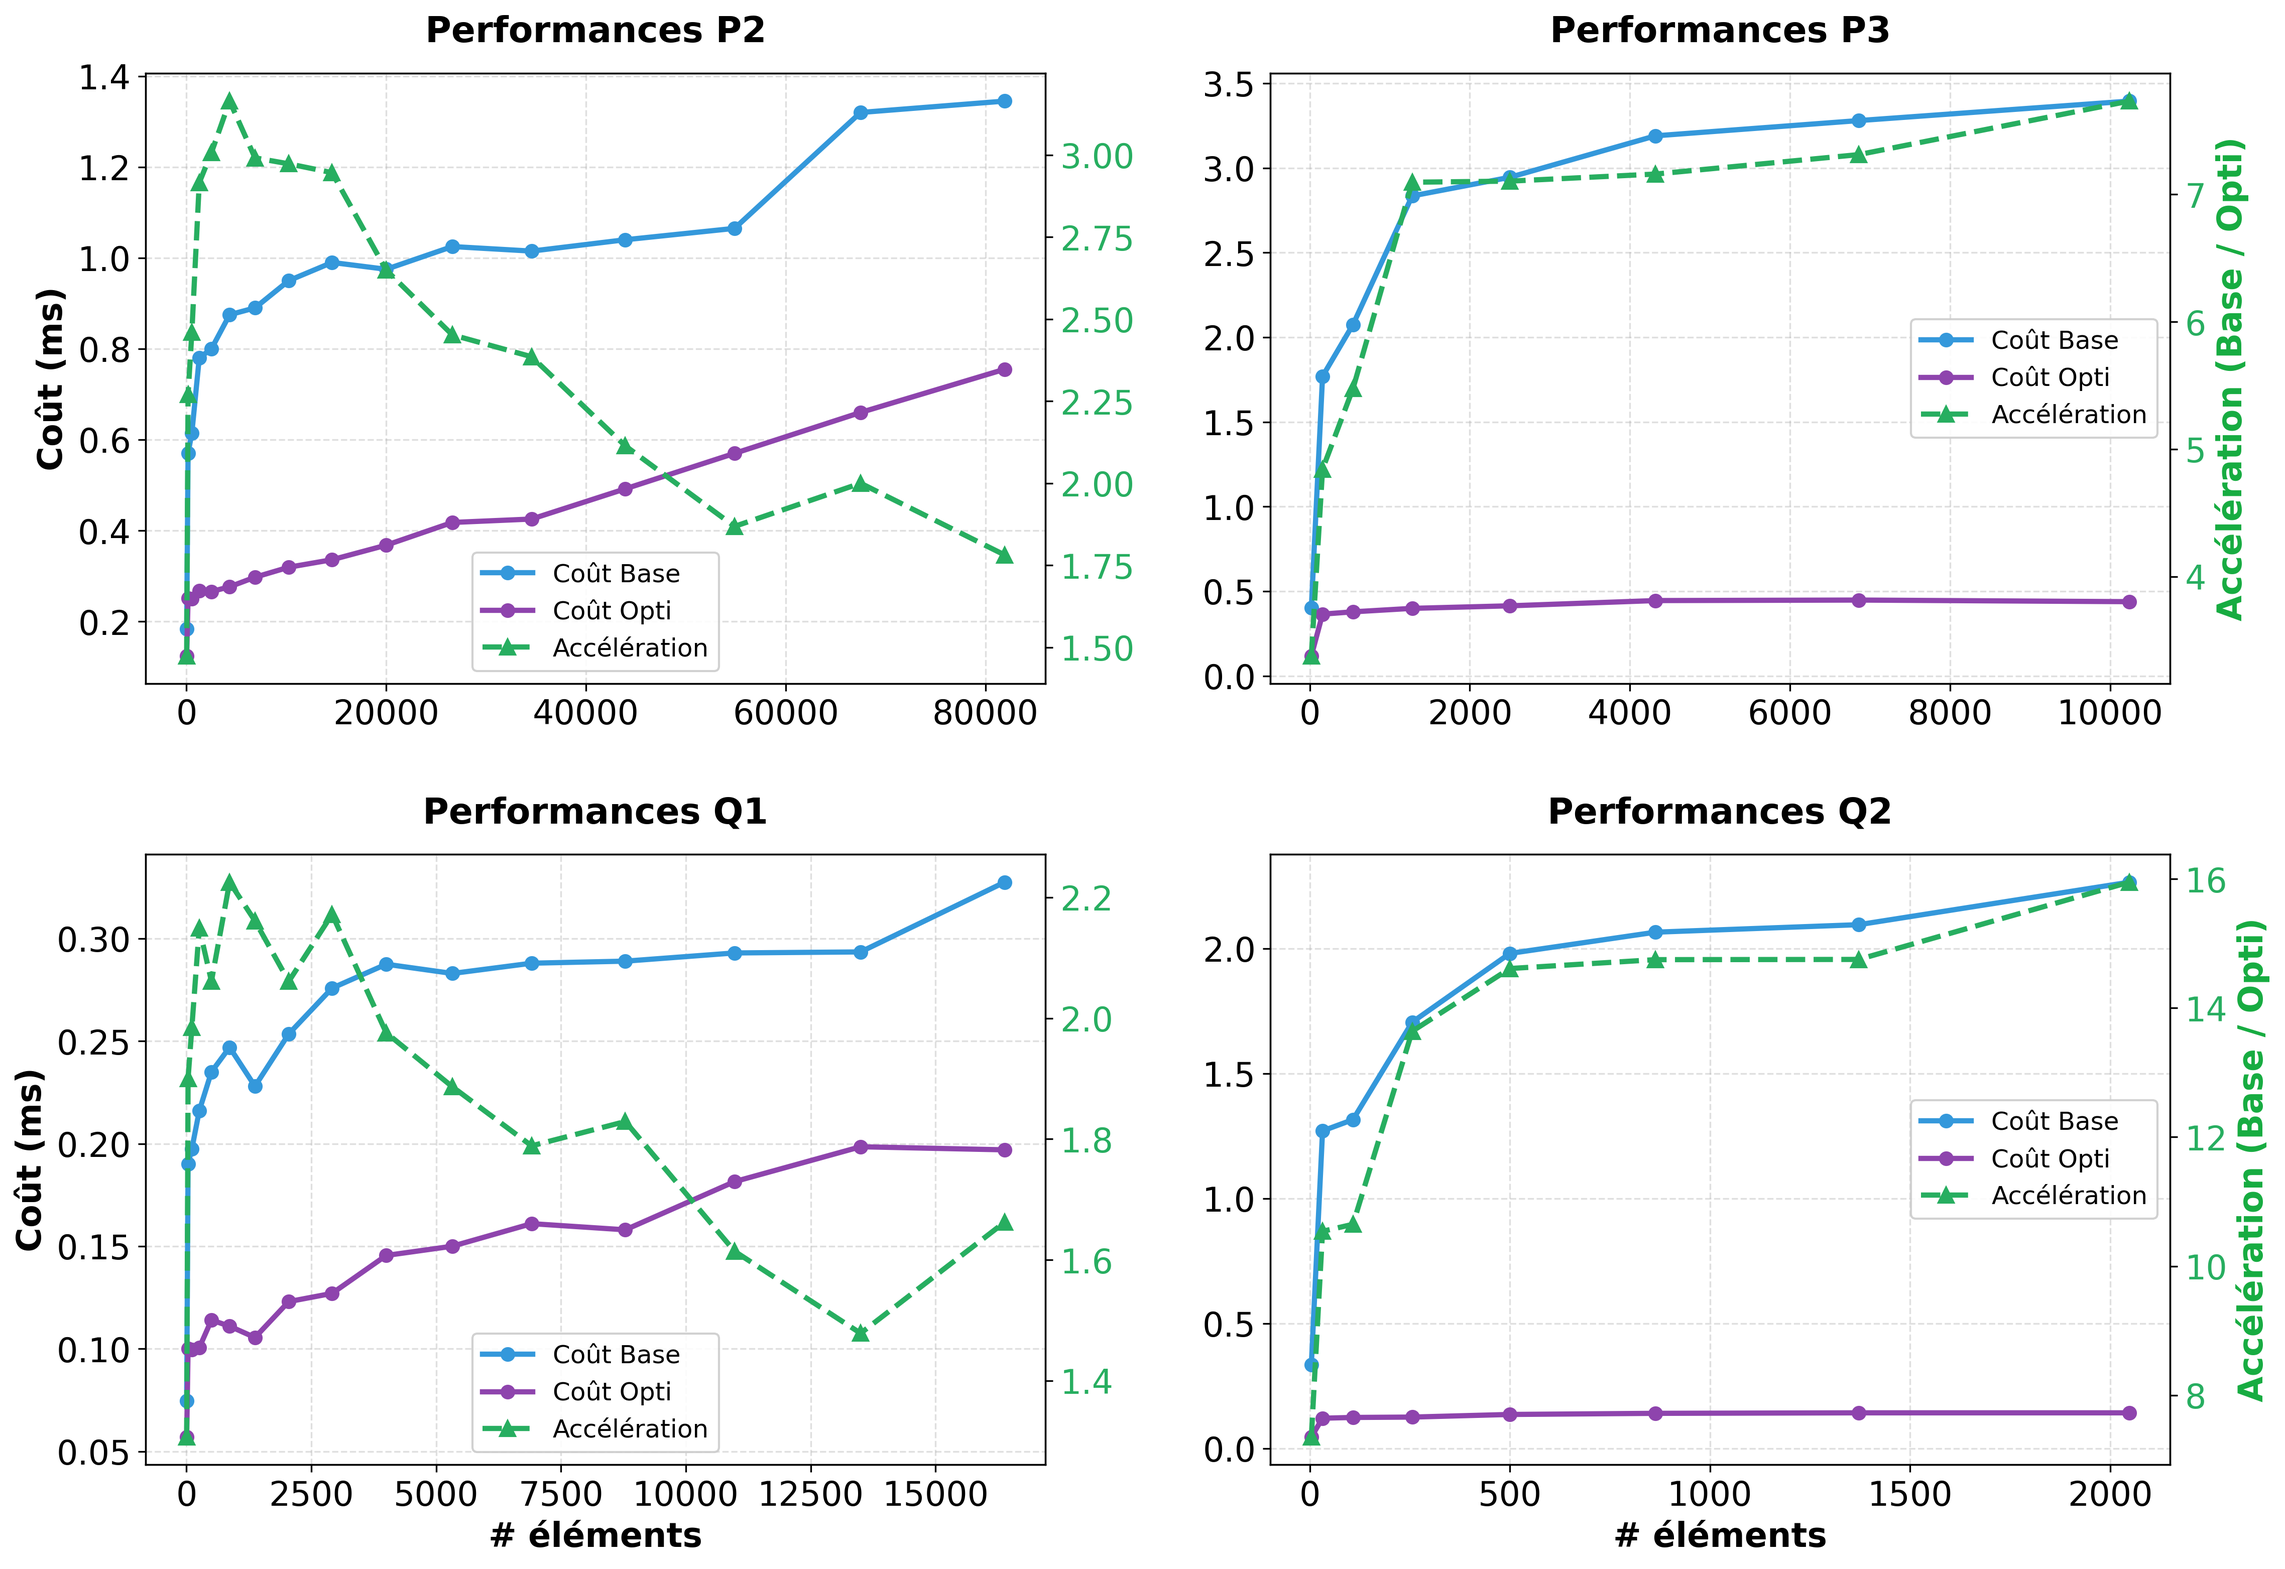
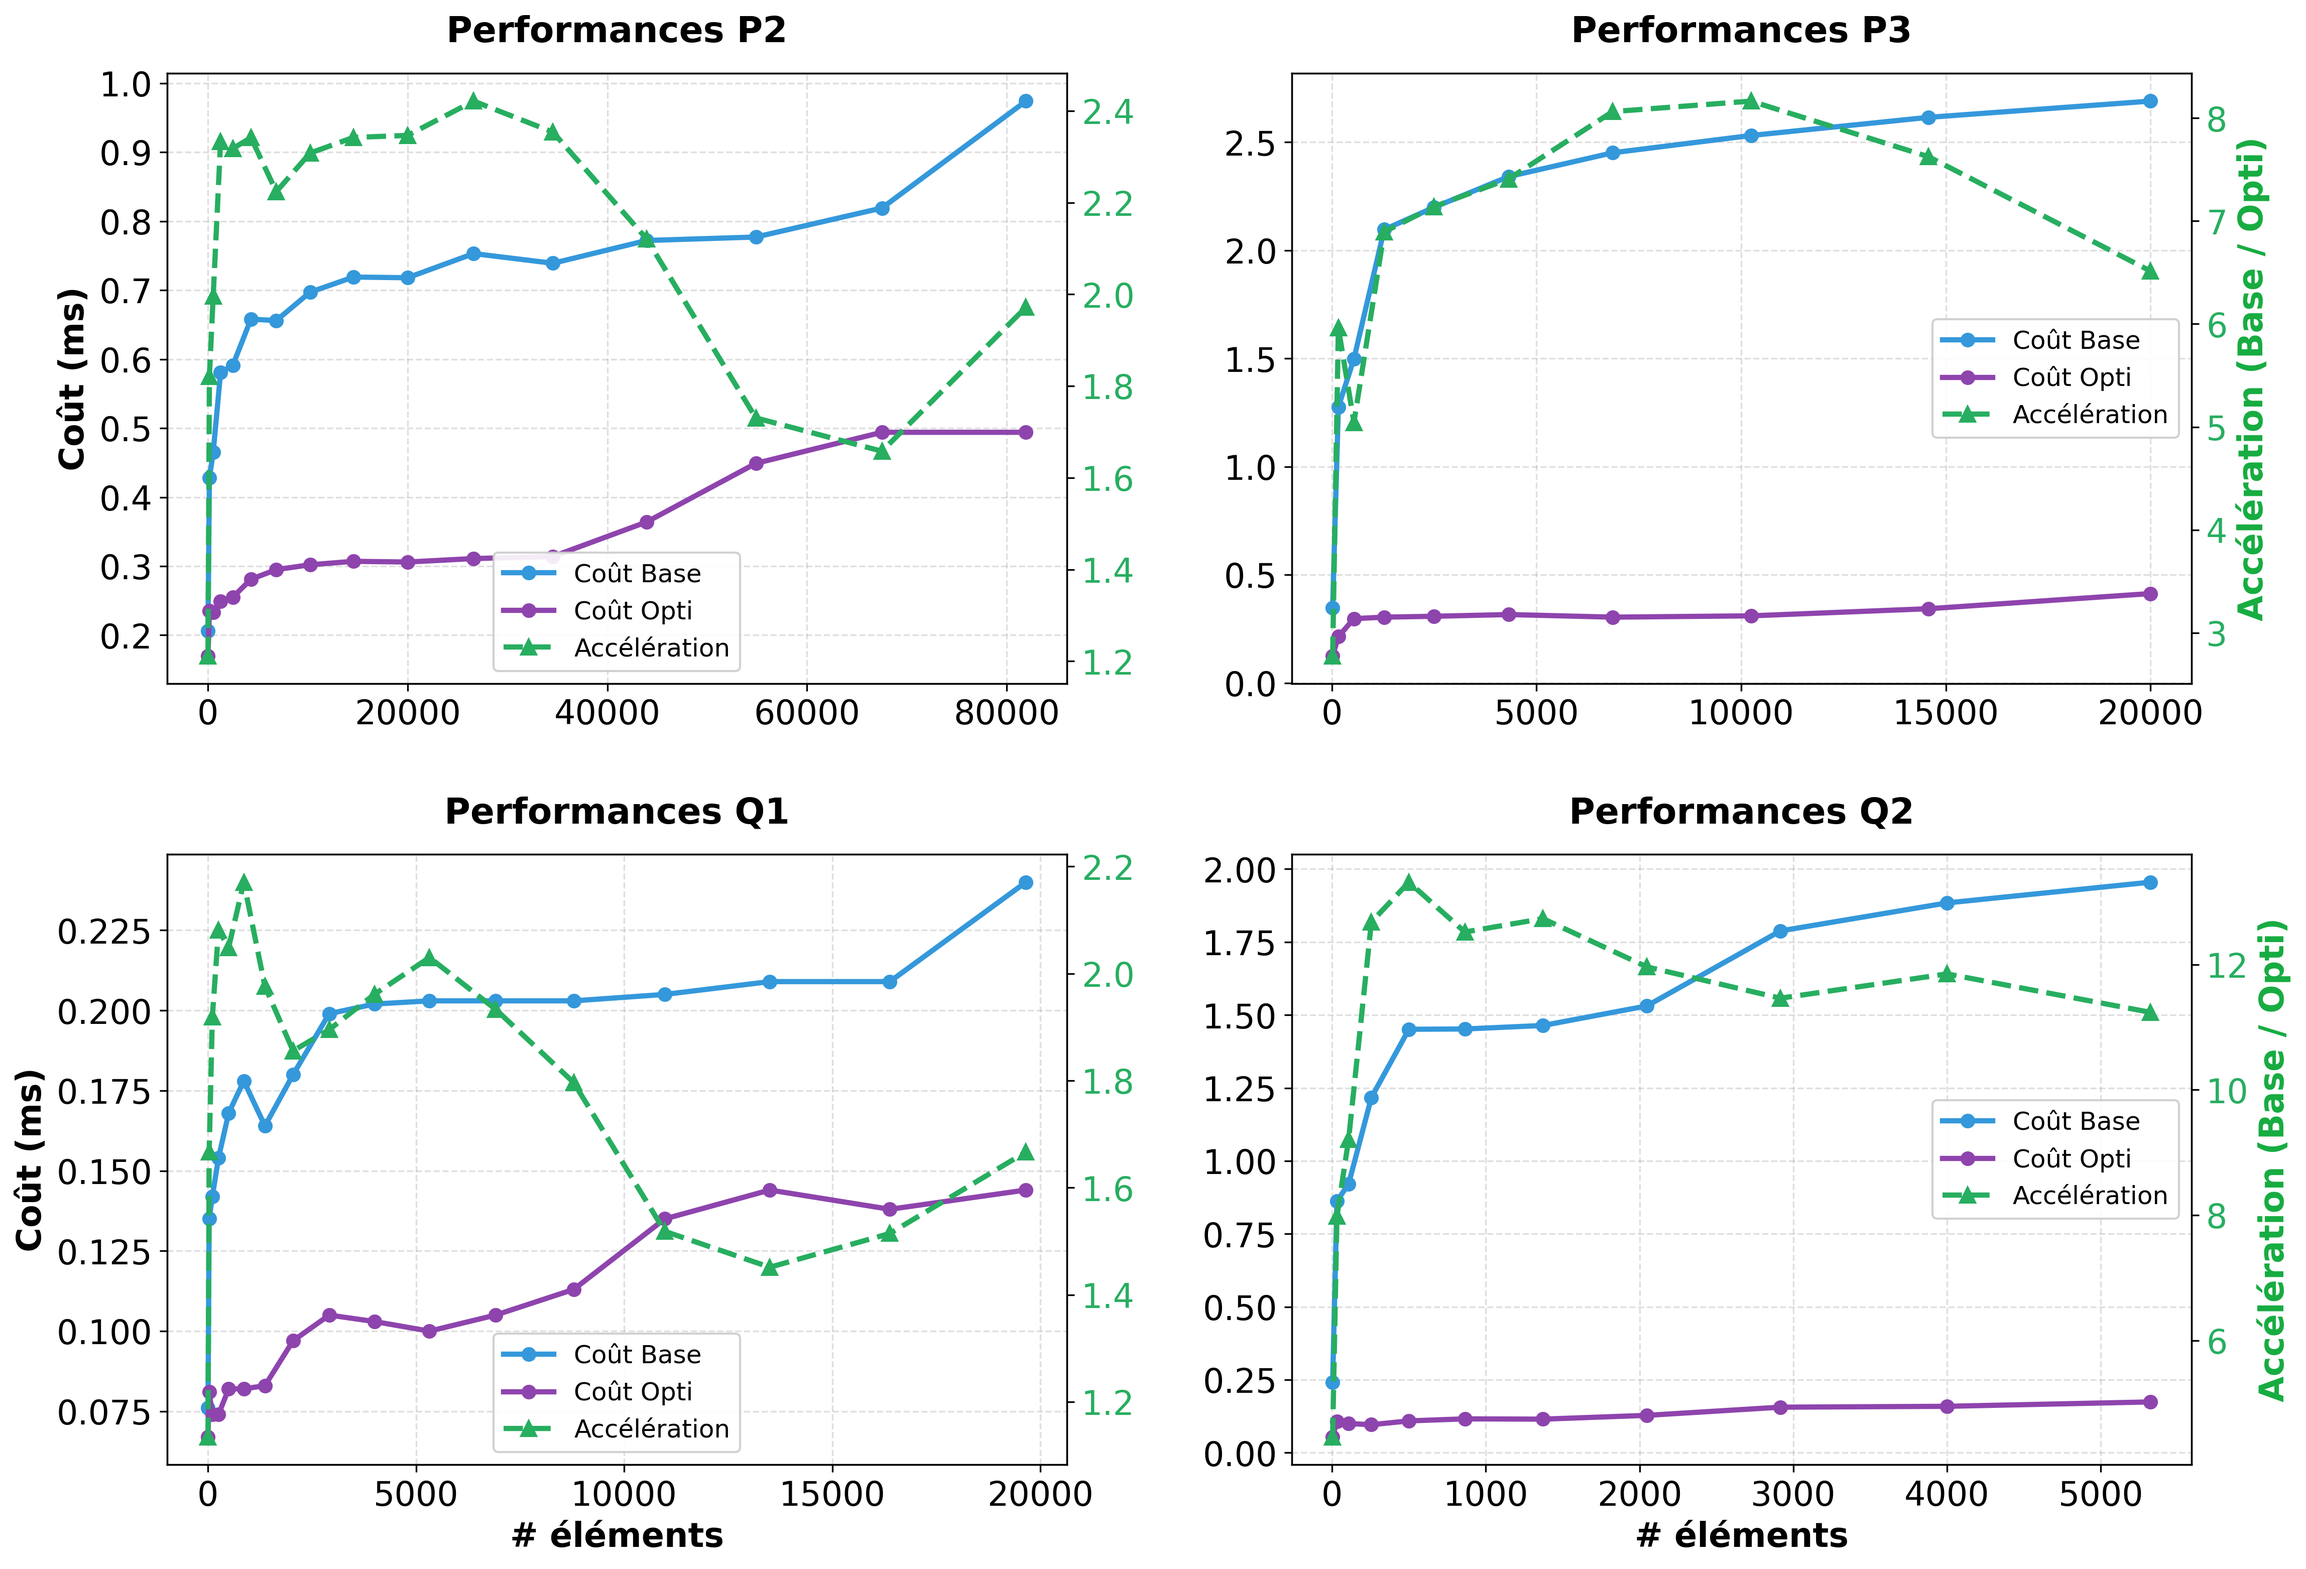
aze

diff --git a/assets/scripts/thesis/fw/XPBD_perf_GPU.py b/assets/scripts/thesis/fw/XPBD_perf_GPU.py
@@ -6,20 +6,20 @@ fig, axes = plt.subplots(2, 2, figsize=(16, 11))
 
 # Données
 P2_nb = [20, 160, 540, 1280, 2500, 4320, 6860, 10240, 14580, 20000, 26620, 34560, 43940, 54880, 67500, 81920] 
-P2_Base = [36.7, 114, 123, 156, 160, 175, 178, 190, 198, 195, 205, 203, 208, 213, 264, 269]
-P2_Opti = [24.9, 50.2, 50.0, 53.5, 53.2, 55.3, 59.5, 63.9, 67.2, 73.6, 83.6, 85.1, 98.4, 114.0, 132.0, 151.0] 
+P2_Base = [20.6, 42.8, 46.5, 58.1, 59.1, 65.8, 65.6, 69.7,71.9, 71.8, 75.3, 73.9, 77.2, 77.7, 81.9, 97.4]
+P2_Opti = [17.0, 23.5, 23.3, 24.9, 25.5, 28.1, 29.5, 30.2, 30.7, 30.6, 31.1, 31.4, 36.4, 44.9, 49.4, 49.4] 
 
-P3_nb = [20, 160, 540, 1280, 2500, 4320, 6860, 10240]
-P3_Base = [80.36, 354, 415, 567, 589, 638, 656, 679]
-P3_Opti = [23.8, 73.1, 75.8, 79.9, 82.9, 89.1, 89.7, 87.8]
+P3_nb = [20, 160, 540, 1280, 2500, 4320, 6860, 10240, 14580, 20000]
+P3_Base = [34.7, 127.6, 149.8, 209.6, 219.9, 234.1, 245.1, 253.1, 261.5, 269.0]
+P3_Opti = [12.5, 21.4, 29.7, 30.4, 30.8, 31.6, 30.4, 31.0, 34.3, 41.3]
 
-Q1_nb = [4, 32, 108, 256, 500, 864, 1372, 2048, 2916, 4000, 5324, 6912, 8788, 10976, 13500, 16384]
-Q1_Base = [14.9, 38.0, 39.5, 43.2, 47.0, 49.4, 45.6, 50.7, 55.17, 57.5, 56.6, 57.6, 57.8, 58.6, 58.7, 65.5]
-Q1_Opti = [11.4, 20.0, 19.9, 20.1, 22.8, 22.2, 21.1, 24.6, 25.4, 29.1, 30.0, 32.2, 31.6, 36.3, 39.7, 39.4]
+Q1_nb = [4, 32, 108, 256, 500, 864, 1372, 2048, 2916, 4000, 5324, 6912, 8788, 10976, 13500, 16384, 19652]
+Q1_Base = [7.6, 13.5, 14.2, 15.4, 16.8, 17.8, 16.4, 18.0, 19.9, 20.2, 20.3, 20.3, 20.3, 20.5, 20.9, 20.9, 24.0]
+Q1_Opti = [6.7, 8.1, 7.4, 7.4, 8.2, 8.2, 8.3, 9.7, 10.5, 10.3, 10.0, 10.5, 11.3, 13.5, 14.4, 13.8, 14.4]
 
-Q2_nb = [4, 32, 108, 256, 500, 864, 1372, 2048]
-Q2_Base = [66.9, 254, 263, 341, 396, 413, 419, 453]
-Q2_Opti = [9.1, 24.1, 24.7, 25.0, 27.1, 28.0, 28.4, 28.4]
+Q2_nb = [4, 32, 108, 256, 500, 864, 1372, 2048, 2916, 4000, 5324]
+Q2_Base = [24.1, 86.2, 92.1, 121.7, 145.1, 145.2, 146.4, 153.1,178.8,188.4,195.5]
+Q2_Opti = [5.4, 10.8, 10.0, 9.6, 10.9, 11.6, 11.5, 12.8,15.6,15.9,17.4]
 
 def display_combined(ax, nb, base, opti, title, is_left=False, is_right=False, is_bottom=False, leg_loc='best'):
     colors = ["#3498db", "#8e44ad", "#27ae60"]
@@ -27,8 +27,8 @@ def display_combined(ax, nb, base, opti, title, is_left=False, is_right=False, i
     y_base = np.array(base)
     y_opti = np.array(opti)
     for i in range(len(base)):
-      y_base[i] = y_base[i] / 200
-      y_opti[i] = y_opti[i] / 200
+      y_base[i] = y_base[i] / 100
+      y_opti[i] = y_opti[i] / 100
     y_acc = y_base / y_opti
 
     # --- AXE GAUCHE : Coût ---

diff --git a/octopus/include/Scene/BaseScene.h b/octopus/include/Scene/BaseScene.h
@@ -89,29 +89,31 @@ struct BaseScene final : Scene
         args.iteration = 1; args.sub_iteration = 1;
         args.scenario_1 = 0; args.scenario_2 = -1; args.dir = Unit3D::right();
         args.display = FEM_DataDisplay::Type::BaseColor;
-        args.mesh_file = "mesh/vtk/armadillo4.vtk";
-        args.mesh_type = "vtk";
+        //args.mesh_file = "mesh/vtk/armadillo4.vtk";
+        //args.mesh_type = "vtk";
         //args.mesh_file = "mesh/msh/bar_tetra_1300.msh";
         //args.mesh_type = "msh";
-        Vector3I cells(56, 14, 14);
-
         Vector3 size(4, 1, 1);
+
+        Vector3I cells(48, 12, 12);
+
 
         args.biased = false;
         args.damping = 5e-6;
-        //args.sub_iteration = 500; build_fem_entity(Vector3(0,0.,1), cells, size, Color(0.8,.2,0.8,0), Tetra, args, true, Explicit);
+        //args.sub_iteration = 500; build_fem_entity(Vector3(0,0.,1), cells, size, Color(0.8,.2,0.8,0), Hexa, args, true, Explicit);
 
-        args.sub_iteration = 200;
+        args.sub_iteration = 100;
         args.damping = 10;
-        for(int i = 1; i <= 16; ++i)
+        for(int i = 11; i <= 11; ++i)
         {
             cells = Vector3I(i*4,i,i);
-            //build_xpbd_entity(Vector3(0,0,0), cells, size, Color(0.8,.2,0.8,0), Tetra20, args, true, false, XPBD_FEM_VERSION::OptiShared);
+            build_xpbd_entity(Vector3(0,0,0), cells, size, Color(0.8,.2,0.8,0), Hexa27, args, true, false, XPBD_FEM_VERSION::XPBD);
+            //build_xpbd_entity(Vector3(0,0,0), cells, size, Color(0.8,.2,0.8,0), Hexa27, args, true, false, XPBD_FEM_VERSION::OptiShared);
         }
 
         args.sub_iteration = 22;
         args.iteration = 2;
-        build_vbd_entity(Vector3(0,0 ,0), cells, size, Color(0.8,.2,0.8,0), Hexa27, args, 0, true, VBD_Version::Reduction_Symmetry);
+        //build_vbd_entity(Vector3(0,0 ,0), cells, size, Color(0.8,.2,0.8,0), Hexa27, args, 0, true, VBD_Version::Reduction_Symmetry);
 
         //build_xpbd_entity(Vector3(0,0,0), cells, size, Color(0.8,.2,0.8,0), Tetra10, args, true, false, XPBD_FEM_VERSION::OptiShared);
 
